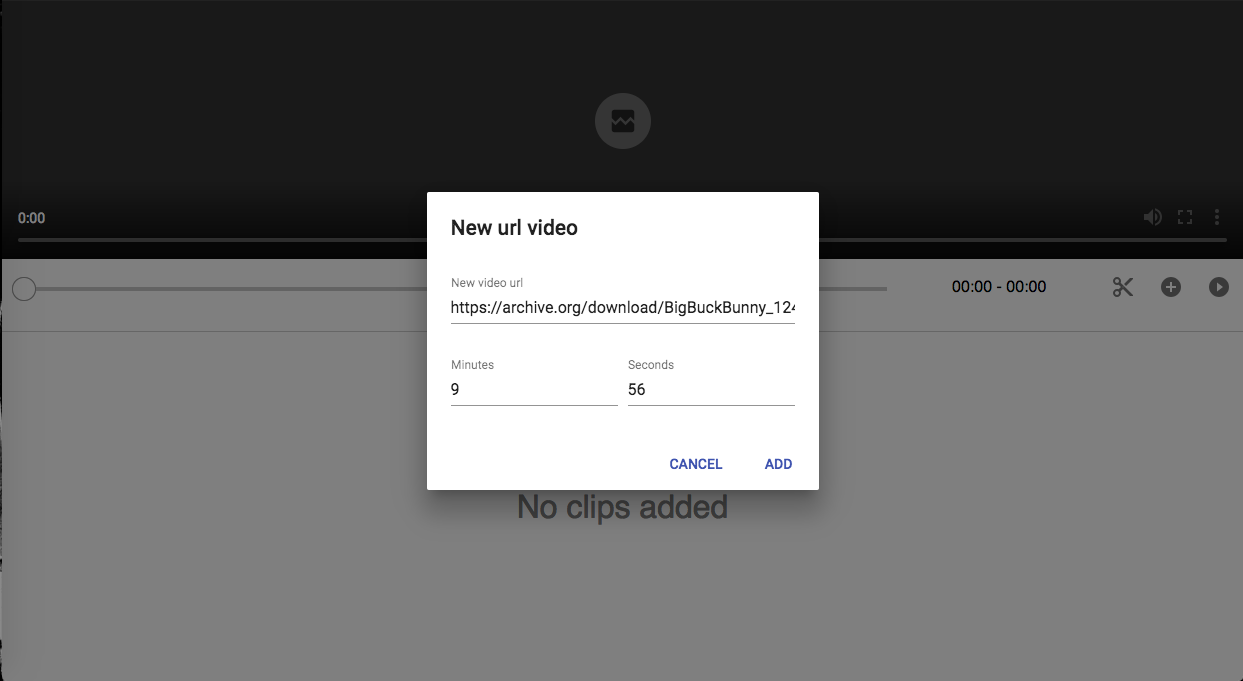
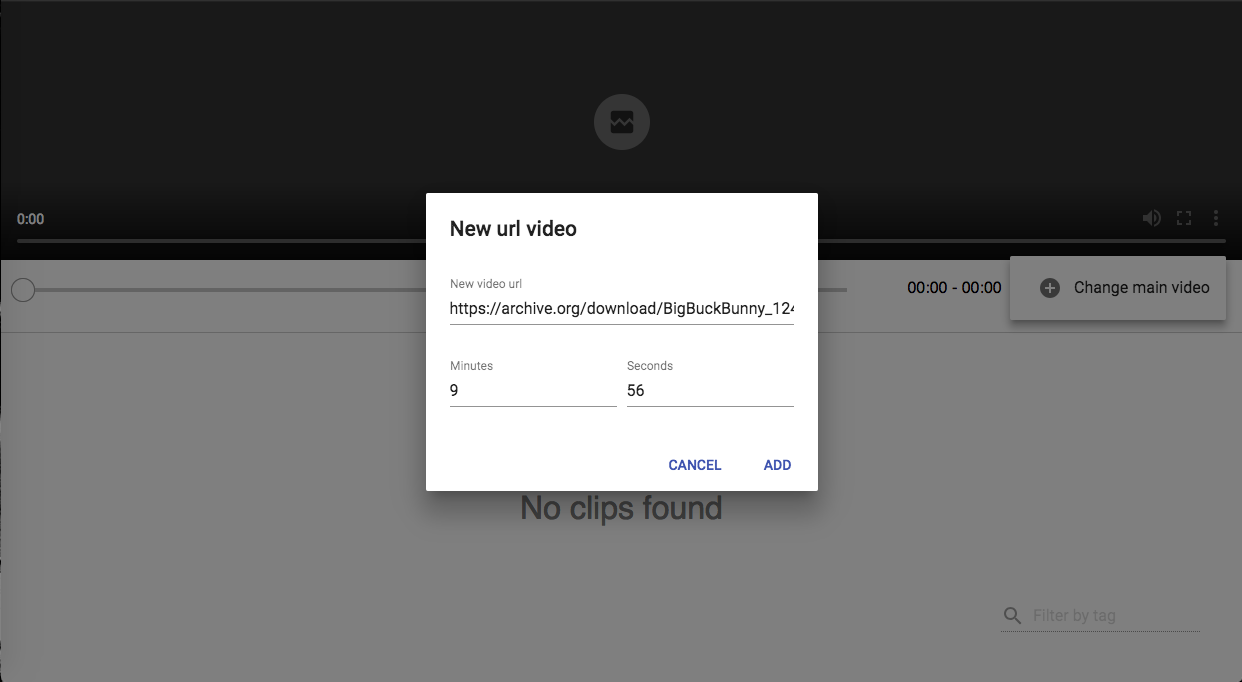
Updated README

diff --git a/README.md b/README.md
@@ -24,18 +24,24 @@ You can choose the range to create athe new clip.
 
 ![Select time to clip](screenshots/4-modify-time-to-clip.png)
 
-After modify range you can create the new clip only clicking the scissors button.
+After modify range you can create the new clip only clicking the scissors button. And on the modal opened you must add the clip's name and its tag.
 
 ![Add new clip](screenshots/5-create-clip.png)
+
+![Modal new clip](screenshots/9-modal-new-clip.png)
 
 After click on scissors button you can watch the clips list and clink on any one to play the clip.
 
 ![Clips list](screenshots/6-clips-list.png)
 
-When you click on a clip it will change its style to indicate active state.
+When you click on a clip it will change its style to indicate active state. Also you can use previous and next buttons to navigate between clips. You can navigate the clips using leftArrow and rightArrow keys.
 
 ![Playin clip](screenshots/7-playing-clip.png)
 
 If you want to play full video you can clicl play button on controls component.
 
 ![Play main video again](screenshots/8-play-original-video.png)
+
+If you want to filter by tag you can do it writing on TextField located at right lower border.
+
+![Play main video again](screenshots/10-filter-by-tag.png)
